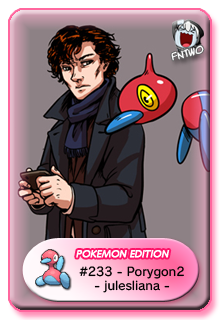
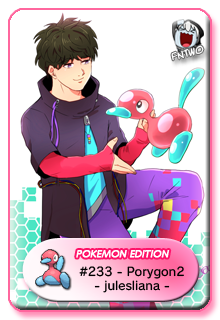
13th commit
added new pokemon cards and changed rwe club icon

diff --git a/pokemon-1.html b/pokemon-1.html
@@ -100,32 +100,52 @@ h1 {letter-spacing: 6px}
 <h1 class="w3-medium w3-center w3-opacity" style="padding:10px 10px">cards by fivenuckles2</h1>
 <div class="row">
   <div class="column">
+    <img src="pokemon/191_julesliana.png" alt="Pokemon-191">
     <img src="pokemon/195_julesliana.png" alt="Pokemon-195">
     <img src="pokemon/199_julesliana.png" alt="Pokemon-199">
     <img src="pokemon/203_julesliana.png" alt="Pokemon-203">
     <img src="pokemon/207_julesliana.png" alt="Pokemon-207">
     <img src="pokemon/211_julesliana.png" alt="Pokemon-211">
+    <img src="pokemon/215_julesliana.png" alt="Pokemon-215">
+    <img src="pokemon/219_julesliana.png" alt="Pokemon-219">
+    <img src="pokemon/223g_julesliana.png" alt="Pokemon-223g">
+    <img src="pokemon/227_julesliana.png" alt="Pokemon-227">
   </div>
   <div class="column">
+    <img src="pokemon/192_julesliana.png" alt="Pokemon-192">
     <img src="pokemon/196_julesliana.png" alt="Pokemon-196">
     <img src="pokemon/200_julesliana.png" alt="Pokemon-200">
     <img src="pokemon/204_julesliana.png" alt="Pokemon-204">
     <img src="pokemon/208m_julesliana.png" alt="Pokemon-208m">
     <img src="pokemon/212m_julesliana.png" alt="Pokemon-212m">
+    <img src="pokemon/216_julesliana.png" alt="Pokemon-216">
+    <img src="pokemon/220_julesliana.png" alt="Pokemon-220">
+    <img src="pokemon/224_julesliana.png" alt="Pokemon-224">
+    <img src="pokemon/228_julesliana.png" alt="Pokemon-228">
   </div>
  <div class="column">
+    <img src="pokemon/193_julesliana.png" alt="Pokemon-193">
     <img src="pokemon/197_julesliana.png" alt="Pokemon-197">
     <img src="pokemon/201_julesliana.png" alt="Pokemon-201">
     <img src="pokemon/205_julesliana.png" alt="Pokemon-205">
     <img src="pokemon/209_julesliana.png" alt="Pokemon-209">
     <img src="pokemon/213_julesliana.png" alt="Pokemon-213">
+    <img src="pokemon/217_julesliana.png" alt="Pokemon-217">
+    <img src="pokemon/221_julesliana.png" alt="Pokemon-221">
+    <img src="pokemon/225_julesliana.png" alt="Pokemon-225">
+    <img src="pokemon/229_julesliana.png" alt="Pokemon-229">
   </div>
  <div class="column">
+    <img src="pokemon/194_julesliana.png" alt="Pokemon-194">
     <img src="pokemon/198_julesliana.png" alt="Pokemon-198">
     <img src="pokemon/202_julesliana.png" alt="Pokemon-202">
     <img src="pokemon/206_julesliana.png" alt="Pokemon-206">
     <img src="pokemon/210_julesliana.png" alt="Pokemon-210">
     <img src="pokemon/214o_julesliana.png" alt="Pokemon-214o">
+    <img src="pokemon/218_julesliana.png" alt="Pokemon-218">
+    <img src="pokemon/222g_julesliana.png" alt="Pokemon-222g">
+    <img src="pokemon/226_julesliana.png" alt="Pokemon-226">
+    <img src="pokemon/229m_julesliana.png" alt="Pokemon-229m">
   </div>
 </div>
 <br><br>

diff --git a/pokemon-3.html b/pokemon-3.html
@@ -98,44 +98,13 @@ h1 {letter-spacing: 6px}
 </head>
 <!-- End of  Head Photo Grid -->
 <h1 class="w3-medium w3-center w3-opacity" style="padding:10px 10px">cards by fivenuckles2</h1>
-<div class="row">
-  <div class="column">
-    <img src="pokemon/230_julesliana.png" alt="Pokemon-230">
-    <img src="pokemon/234_julesliana.png" alt="Pokemon-234">
-    <img src="pokemon/238_julesliana.png" alt="Pokemon-238">
-    <img src="pokemon/242_julesliana.png" alt="Pokemon-242">
-    <img src="pokemon/246_julesliana.png" alt="Pokemon-246">
-    <img src="pokemon/250_julesliana.png" alt="Pokemon-250">
-  </div>
-  <div class="column">
-    <img src="pokemon/231_julesliana.png" alt="Pokemon-231">
-    <img src="pokemon/235_julesliana.png" alt="Pokemon-235">
-    <img src="pokemon/239_julesliana.png" alt="Pokemon-239">
-    <img src="pokemon/243_julesliana.png" alt="Pokemon-243">
-    <img src="pokemon/247_julesliana.png" alt="Pokemon-247">
-    <img src="pokemon/251_julesliana.png" alt="Pokemon-251">
-  </div>
- <div class="column">
-    <img src="pokemon/232_julesliana.png" alt="Pokemon-232">
-    <img src="pokemon/236_julesliana.png" alt="Pokemon-236">
-    <img src="pokemon/240_julesliana.png" alt="Pokemon-240">
-    <img src="pokemon/244_julesliana.png" alt="Pokemon-244">
-    <img src="pokemon/248g_julesliana.png" alt="Pokemon-248g">
-  </div>
- <div class="column">
-    <img src="pokemon/233_julesliana.png" alt="Pokemon-233">
-    <img src="pokemon/237_julesliana.png" alt="Pokemon-237">
-    <img src="pokemon/241_julesliana.png" alt="Pokemon-241">
-    <img src="pokemon/245_julesliana.png" alt="Pokemon-245">
-    <img src="pokemon/249_julesliana.png" alt="Pokemon-249">
-  </div>
-</div>
+<br><br><br>
+<h1 class="w3-small w3-center w3-opacity" style="padding:20px 20px">MORE CARDS COMING SOON</h1> 
 <br><br>
 <div class="w3-right w3-opacity">
     <div class="w3-bar w3-border">
-      <a href="javascript:history.back()" class="w3-bar-item w3-button w3-light-grey">Previous Page</a>
+      <a href="javascript:history.back()" class="w3-bar-item w3-button w3-light-grey">Back</a>
       <a href="#top" class="w3-bar-item w3-button">Go to Top</a>
-      <a href="pokemon-3.html" class="w3-bar-item w3-button w3-light-grey">Next Page</a>
     </div>
   </div>   
     

diff --git a/ss-3.html b/ss-3.html
@@ -131,7 +131,6 @@ img.resize {
     <div class="w3-bar w3-border">
       <a href="javascript:history.back()" class="w3-bar-item w3-button w3-light-grey">Back</a>
       <a href="#top" class="w3-bar-item w3-button">Go to Top</a>
-      <a href="ss-1.html" class="w3-bar-item w3-button w3-light-grey">Previous Page</a>
     </div>
   </div>   
     
